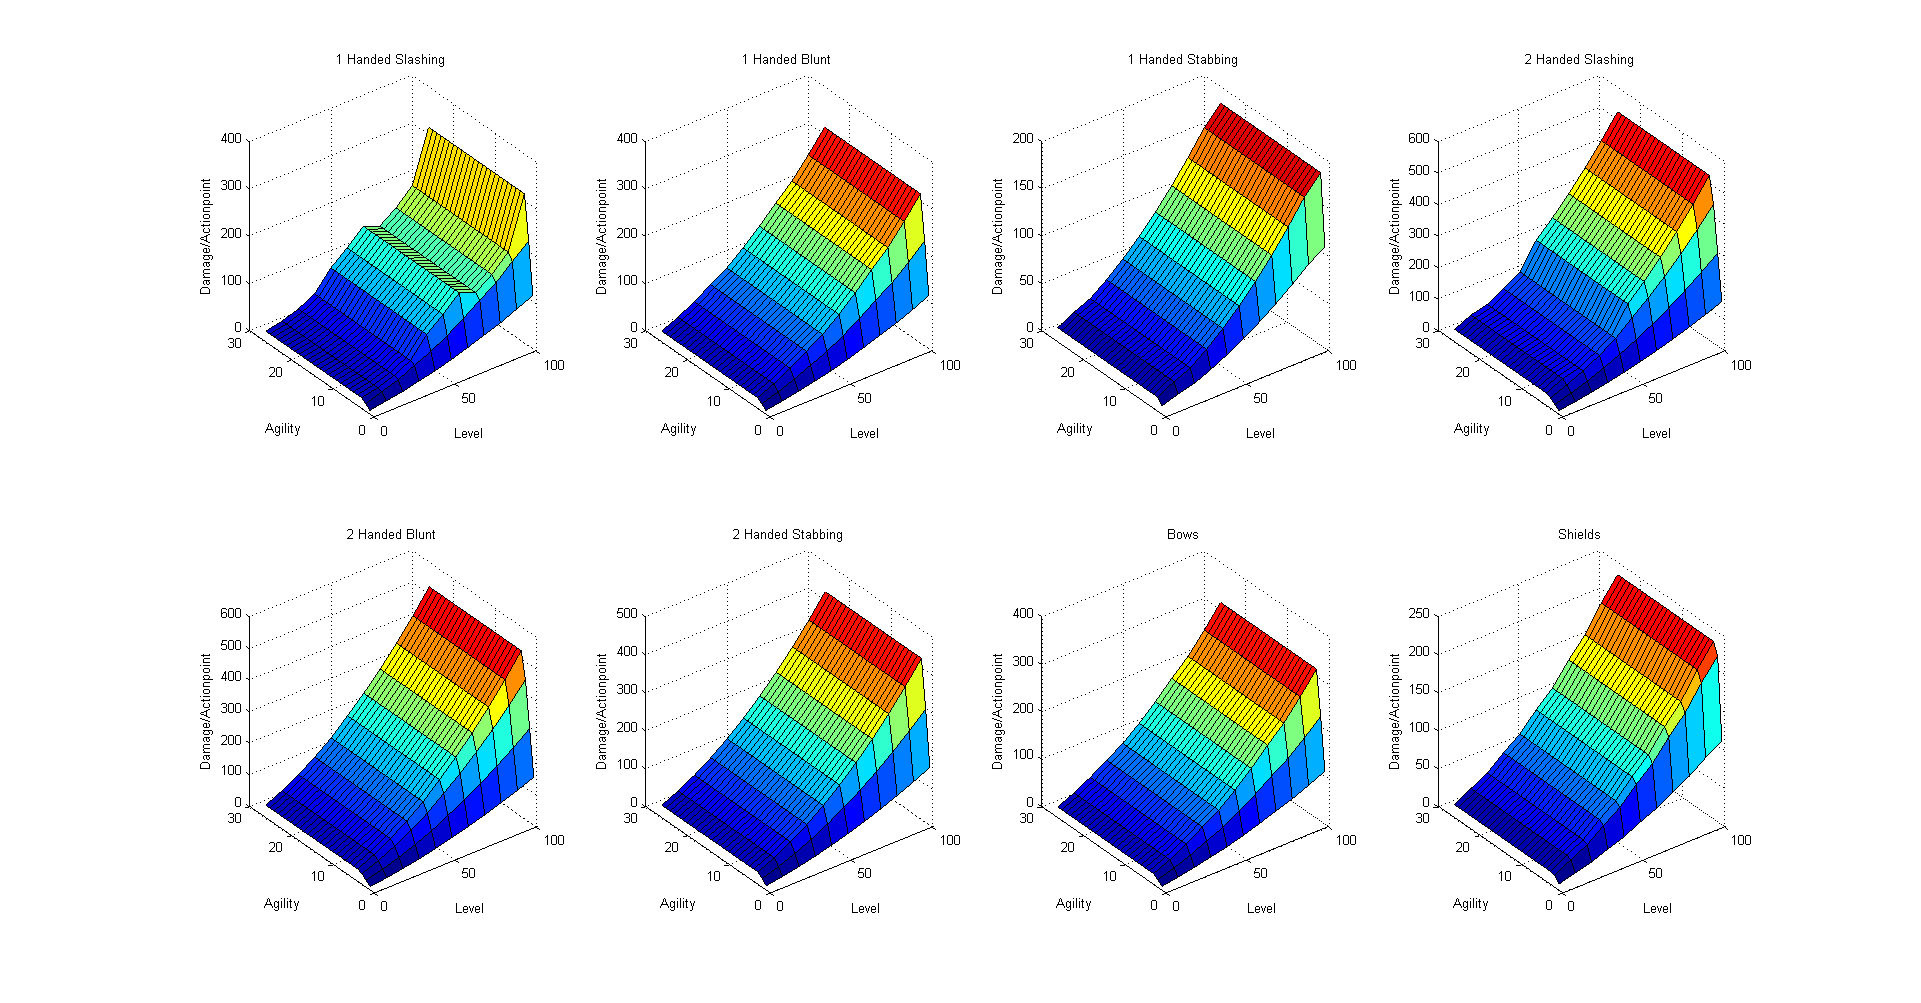
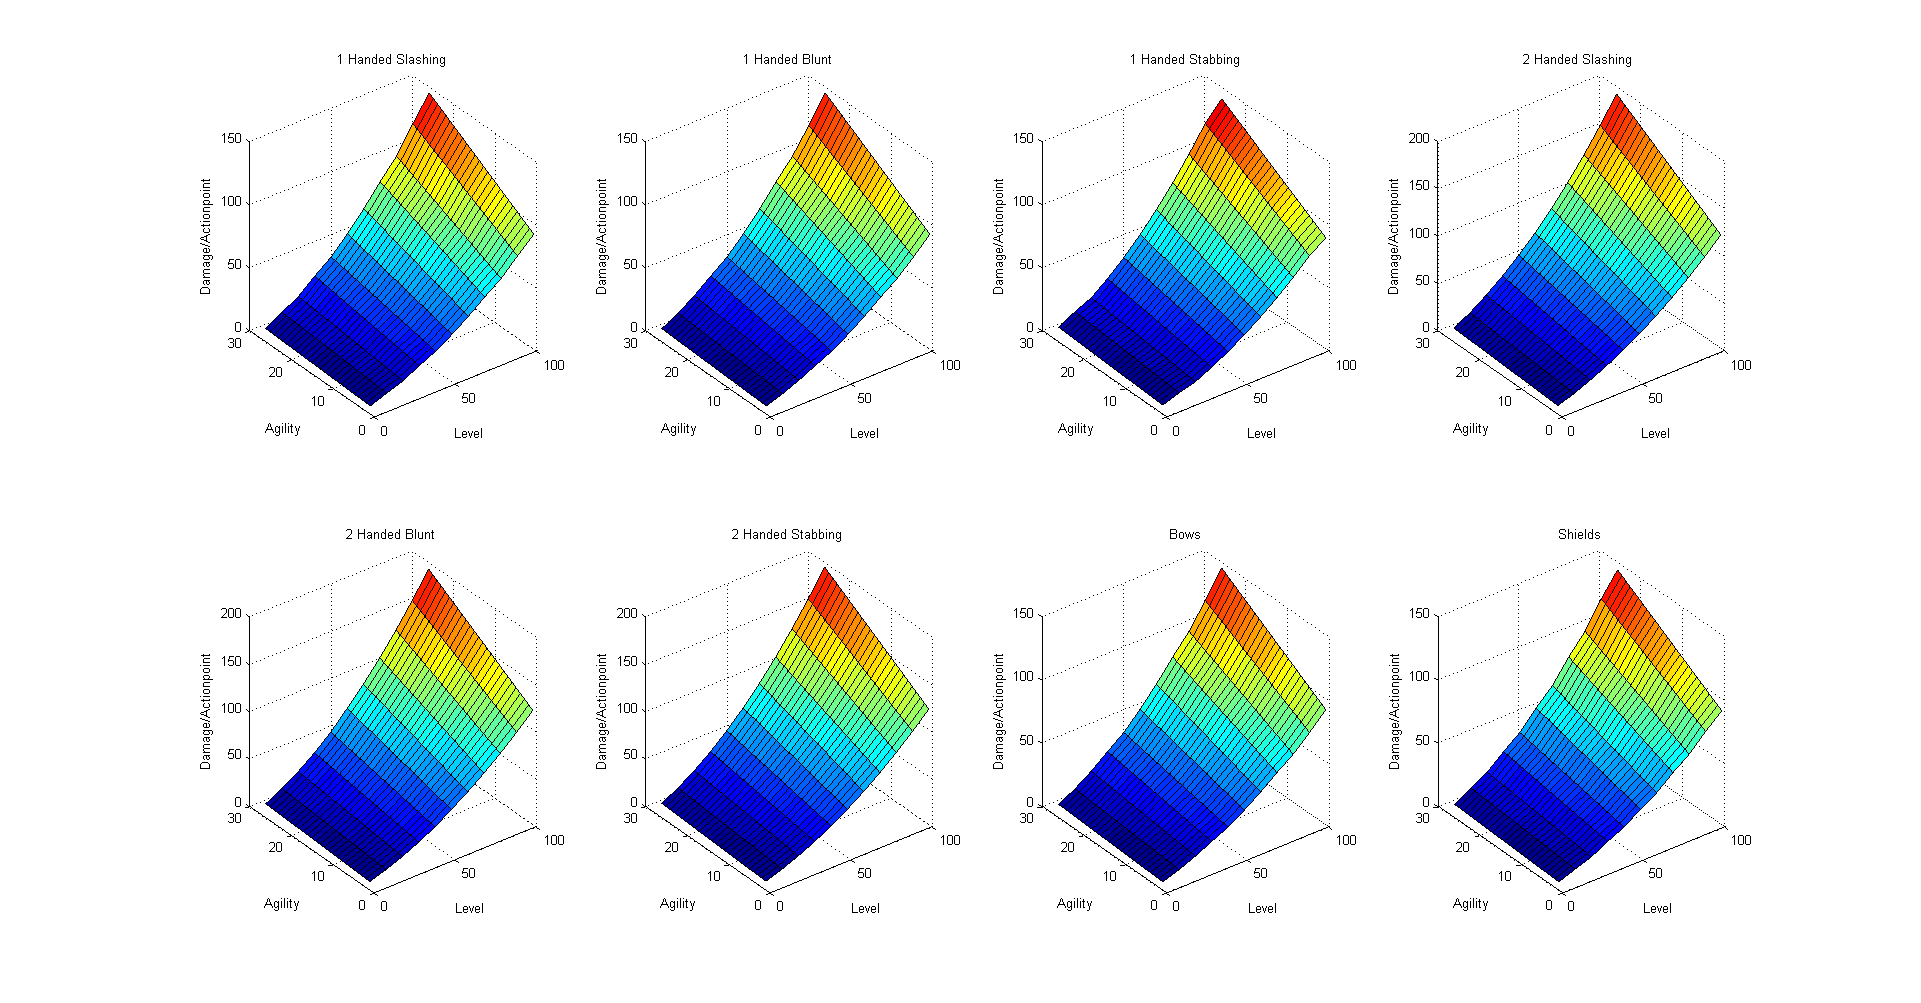
update agility

diff --git a/Illarion/Kampfsystem/fightAttributesTest.m b/Illarion/Kampfsystem/fightAttributesTest.m
@@ -17,8 +17,9 @@ stats = [10 10 10 10 10 10 10 10];
                     if rem(weaponLevel,2) == 0
                     stats(statPos(kindOfStat)) = valueOfStat;
                     attacker = charakterGeneration(stats, [weaponLevel 0 0]);
-                    actionPoints = max(7, weaponsCell{placeOfWeapon,2}.wp_actionpoints * (100- (attacker.attributes.agility-6)*2.5)/100);
-%                    actionPoints = max(7, weaponsCell{placeOfWeapon,2}.wp_actionpoints / attacker.attributes.agility);
+      %              actionPoints = max(7, weaponsCell{placeOfWeapon,2}.wp_actionpoints * (100- (attacker.attributes.agility-6)*2.5)/100);
+                    actionPoints = max(7, weaponsCell{placeOfWeapon,2}.wp_actionpoints / ...
+                    min(1+2*0.2, (1-0.2) + 0.2 * (attacker.attributes.agility / 10)));
                     dpa(weaponLevel/10+1,valueOfStat) = standardfighting_CalculateDamage(attacker,weaponsCell{placeOfWeapon,2})...
                         .*(min(95,weaponsCell{placeOfWeapon,2}.wp_accuracy)/100)./actionPoints;
                     end
